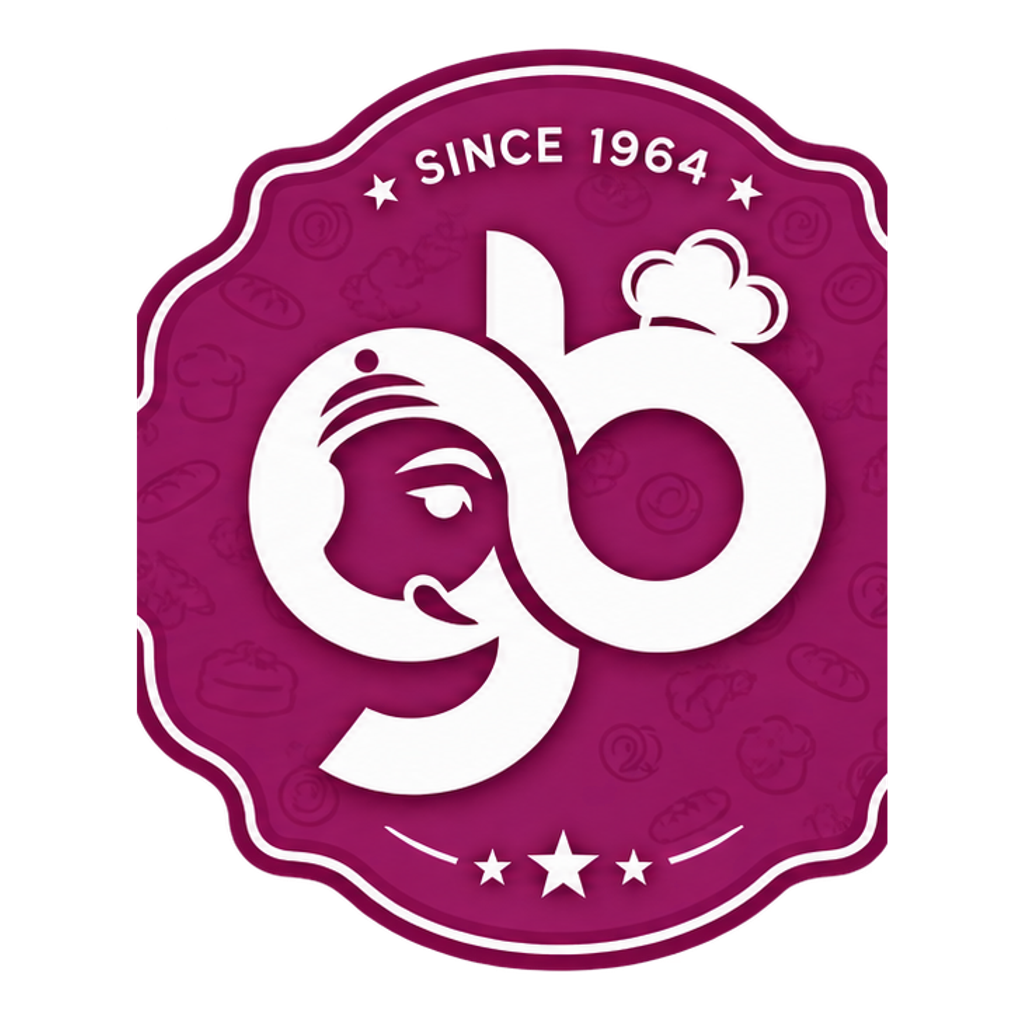
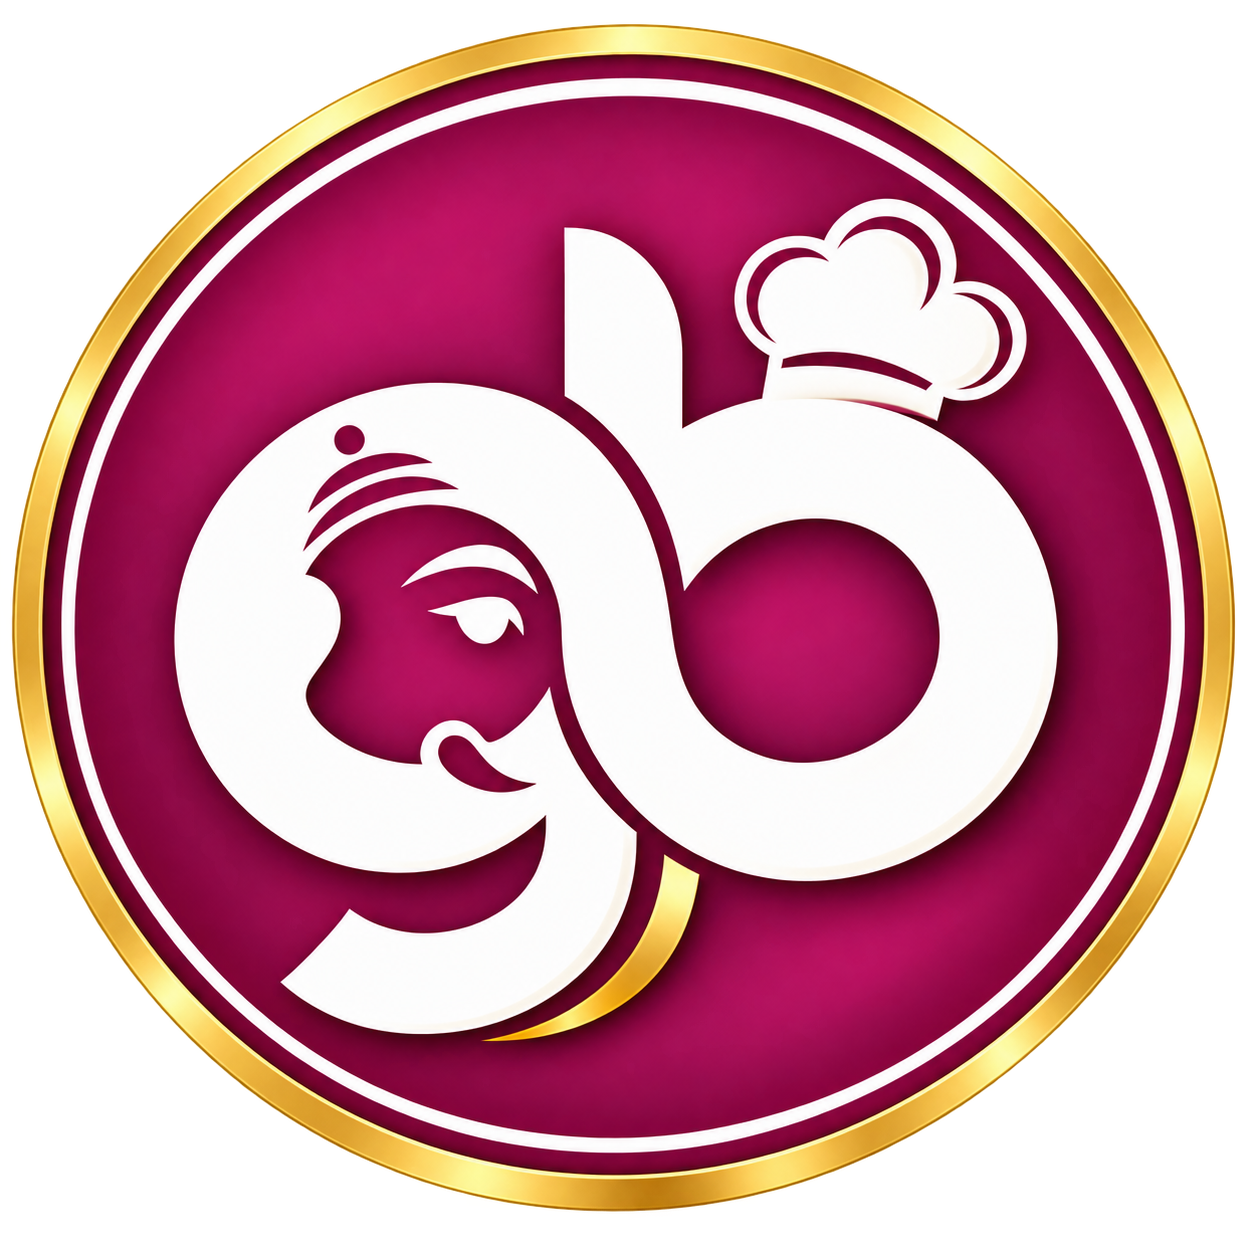
Refactor code structure for improved readability and maintainability

diff --git a/src/components/layout/Header.tsx b/src/components/layout/Header.tsx
@@ -73,15 +73,18 @@ export function Header() {
             <Menu className="h-5 w-5" />
           </button>
 
-          <Link href="/" className="flex shrink-0 items-center lg:mr-4" aria-label="Ganesh Bakery home">
+          <Link href="/" className="flex shrink-0 items-center gap-2.5 lg:mr-4" aria-label="Ganesh Bakery home">
             <Image
-              src="/brand/logo-horizontal.png"
-              alt={`${siteConfig.brandName} — Tuticorin — Est. ${siteConfig.since}`}
-              width={500}
-              height={200}
+              src="/brand/emblem.png"
+              alt=""
+              width={128}
+              height={128}
               priority
-              className="h-12 w-auto sm:h-14 lg:h-16"
+              className="h-10 w-10 object-contain sm:h-12 sm:w-12 lg:h-14 lg:w-14"
             />
+            <span className="hidden font-display text-xl italic leading-tight text-[color:var(--gold-400)] sm:inline sm:text-2xl">
+              {siteConfig.brandName}
+            </span>
           </Link>
 
           <nav className="hidden flex-1 items-center justify-center gap-8 lg:flex" aria-label="Primary">
